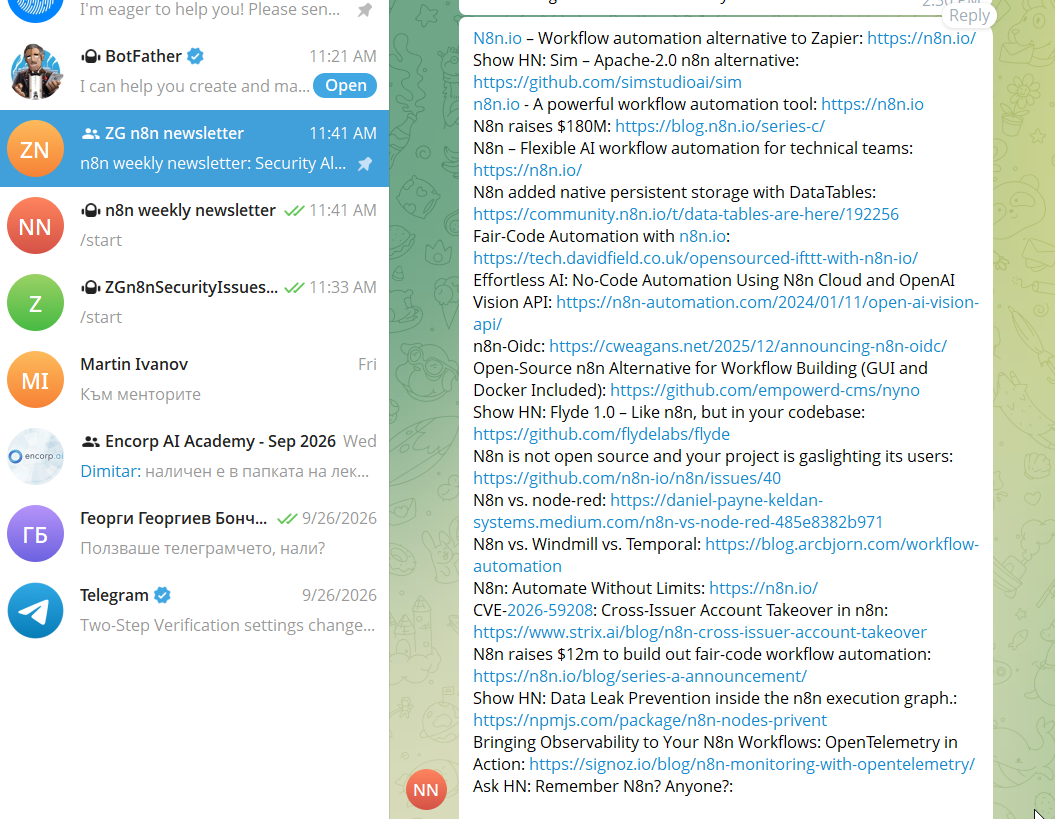
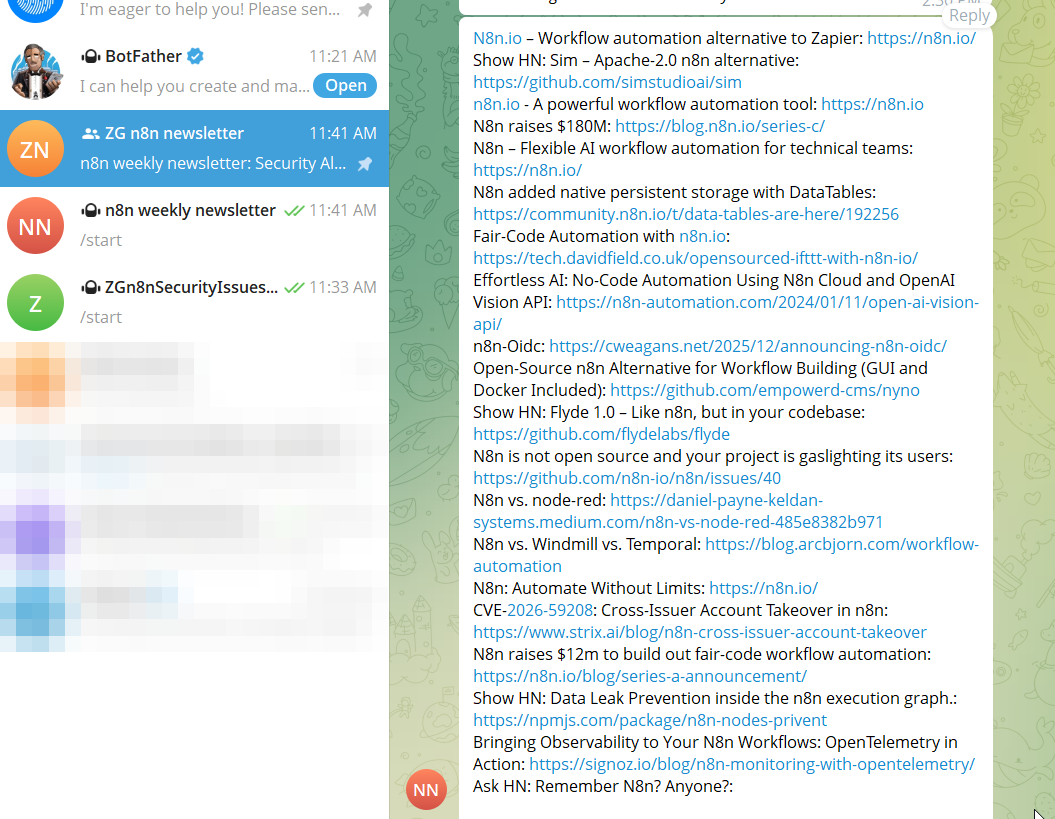
repo: blur personal data in screenshots
Замъглени имейл, аватар и чатове на трети лица; репото е публично.

Claude-Session: https://claude.ai/code/session_01TXhXF2EdugdCSSo3vqBpgM

diff --git a/CHANGELOG.md b/CHANGELOG.md
@@ -1,5 +1,10 @@
 # Changelog
 
+## 2026-10-06 - замъглени скриншоти
+- Промяна: замъглени имейл адрес и аватар (домашни 02, 04, 06) и чатове на трети лица в Telegram (домашни 03, 06).
+- Причина: репото е публично.
+- Бележка: git историята преди този commit съдържа оригиналните снимки и неочистените JSON.
+
 ## 2026-10-06 - статус на седмица 1
 - Промяна: домашни 01-07 са със статус `submitted` (тествани лично от Здравко и предадени; все още без оценка).
 - Причина: потвърждение от Здравко.
